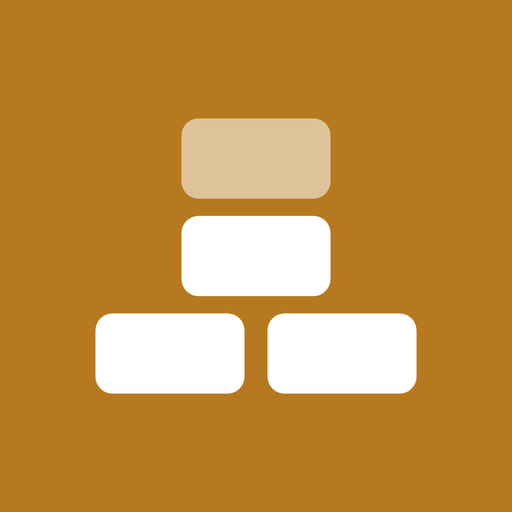
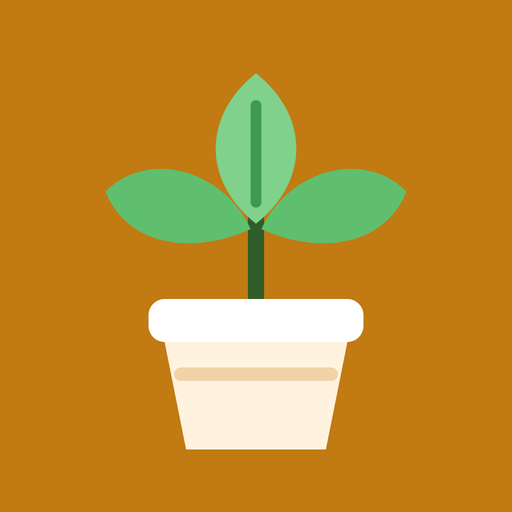
Cimientos v47: icono nuevo (planta)

Changed region(s): [[0.1875, 0.125, 0.8125, 0.9062]]

diff --git a/index.html b/index.html
@@ -64,7 +64,7 @@
 </defs></svg>
 
 <header>
-  <div class="nombre-app"><h1><svg class="marca-ico" viewBox="0 0 100 100" aria-hidden="true"><rect width="100" height="100" rx="26" fill="#b7791f"/><g transform="translate(50 50) scale(1.12) translate(-50 -50)"><rect x="22" y="60" width="26" height="14" rx="3" fill="#fff"/><rect x="52" y="60" width="26" height="14" rx="3" fill="#fff"/><rect x="37" y="43" width="26" height="14" rx="3" fill="#fff"/><rect x="37" y="26" width="26" height="14" rx="3" fill="#fff" opacity=".55"/></g></svg>Cimientos</h1><p>Entenderte y actuar mejor, a tu ritmo.</p></div>
+  <div class="nombre-app"><h1><svg class="marca-ico" viewBox="0 0 100 100" aria-hidden="true"><rect width="100" height="100" rx="26" fill="#c27a12"/><g transform="translate(50 50) scale(1.05) translate(-50 -50)"><path d="M50 62 V40" stroke="#2f5d2a" stroke-width="3" stroke-linecap="round"/><path d="M50 16 C60 24 60 36 50 44 C40 36 40 24 50 16 Z" fill="#7fd18b"/><path d="M50 22 V40" stroke="#3f9a50" stroke-width="2" stroke-linecap="round"/><path d="M22 38 C30 30 44 34 49 45 C38 50 26 48 22 38 Z" fill="#5fbf6e"/><path d="M78 38 C70 30 56 34 51 45 C62 50 74 48 78 38 Z" fill="#5fbf6e"/><rect x="30" y="58" width="40" height="8" rx="3" fill="#fff"/><path d="M33 66 H67 L63 86 H37 Z" fill="#fff3e0"/><path d="M36 72 H64" stroke="#f2d3a8" stroke-width="2.5" stroke-linecap="round"/></g></svg>Cimientos</h1><p>Entenderte y actuar mejor, a tu ritmo.</p></div>
   <button class="hbtn" id="btnTema" aria-label="Cambiar tema"><svg class="ic-v" aria-hidden="true"><use href="#i-luna"/></svg></button>
   <button class="hbtn" id="btnAjustes" aria-label="Ajustes"><svg class="ic-v" aria-hidden="true"><use href="#i-ajustes"/></svg></button>
 </header>

diff --git a/service-worker.js b/service-worker.js
@@ -1,5 +1,5 @@
 /* Al cambiar el contenido de la app, sube este número: la app se actualiza sola al abrirla. */
-const CACHE_VERSION = 'cimientos-v46';
+const CACHE_VERSION = 'cimientos-v47';
 
 const APP_SHELL = [
   './',
